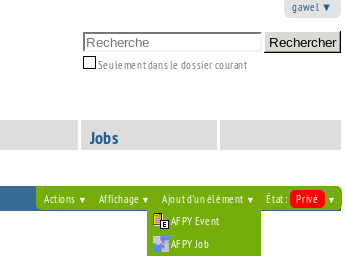
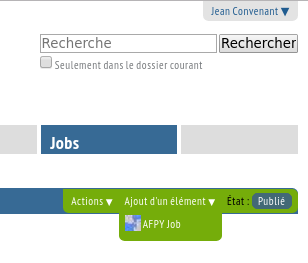
mise à jour de la faq pour publier un nouveau job en tant qu'utilisateur lambda

diff --git a/docs/faq.rst b/docs/faq.rst
@@ -11,7 +11,7 @@ Intérêt
 Être membre permet :
 
 - de payer vos cotisations et savoir si vous êtes à jour,
-- et pour les membres professionnels d'avoir accès aux services premium tels que l'accès à notre fil d'annonces professsionnelles. 
+- et pour les membres professionnels d'avoir accès aux services premium tels que l'accès à notre fil d'annonces professsionnelles.
 
 comment?
 ---------
@@ -35,14 +35,7 @@ Vous pouvez changer votre mot de passe en passant par ici_.
 Comment puis-je poster une offre d'emploi ?
 -------------------------------------------
 
-Après vous être créé un compte, allez dans ``Mon dossier personnel`` en utilisant
-le menu utilisateur situé en haut à droite:
-
-.. image:: _static/jobs/menu.png
-   :align: center
-   :class: image
-
-(Si vous ne voyez pas ce menu, cliquez sur le logo AFPy en haut à gauche.)
+Après vous être créé un compte, allez sur l'onglet ``Jobs``
 
 En utilisant le menu ``Ajout d'un élément``, ajoutez un ``AFPy Job``:
 
@@ -50,19 +43,9 @@ En utilisant le menu ``Ajout d'un élément``, ajoutez un ``AFPy Job``:
    :align: center
    :class: image
 
-Remplissez les champs puis validez.
+Remplissez les champs puis enregistrez.
 
-Une fois satisfait du rendu, vous devez ``Soumettre à la publication`` votre
-annonce à l'aide du menu déroulant situé dans la barre verte au dessus de votre
-annonce.
-
-.. image:: _static/jobs/review.png
-   :align: center
-   :class: image
-
-.. warning::
-
-  Si vous omettez cette dernière étape, votre annonce ne sera jamais visible.
+Vous devez attendre qu'un admin publie votre job
 
 Divers
 ======
@@ -94,5 +77,3 @@ Je n'ai pas trouvé la réponse à ma question
 
 Venez poser votre question sur notre salon de :doc:`clavardage` ou envoyez un
 email à ``www at afpy dot org`` contenant votre question.
-
-
